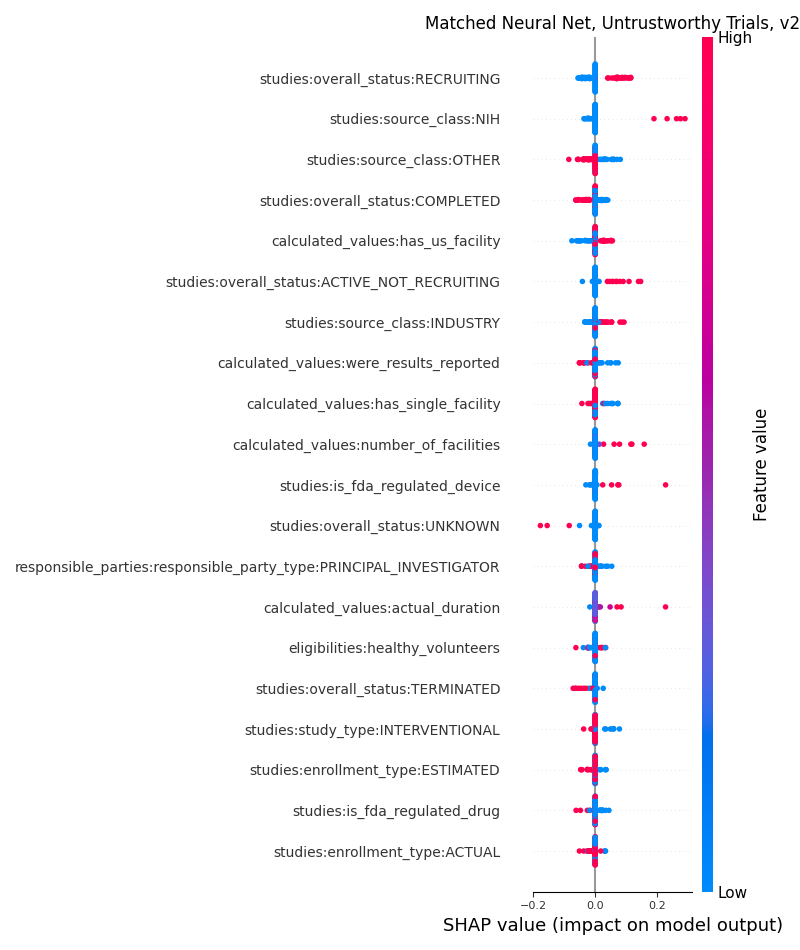
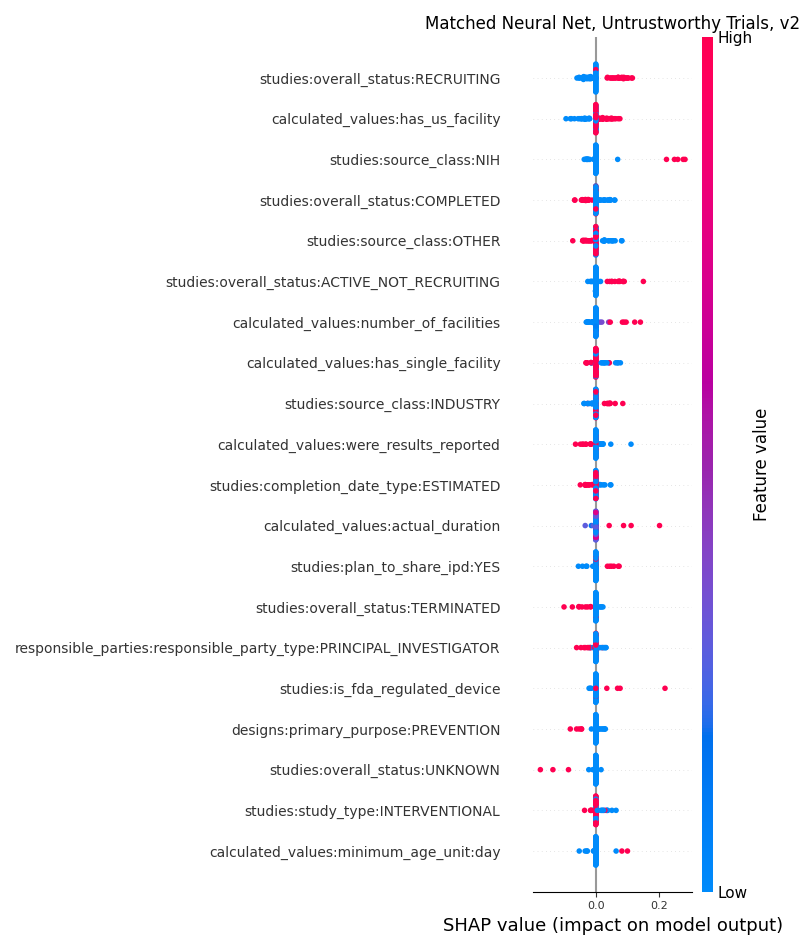
Re-ran to print accuracies

diff --git a/retractions/venn_retractions.py b/retractions/venn_retractions.py
@@ -34,7 +34,7 @@ for subset_id in ('100', '010', '001', '110', '101', '011', '111'):
     if patch:
         patch.set_alpha(0.7)
 
-plt.title("Overlap of Retracted Trials (NCT IDs)")
+plt.title("Overlap of Retracted Trials from Various Sources")
 plt.tight_layout()
 plt.savefig("venn_retractions")
 
